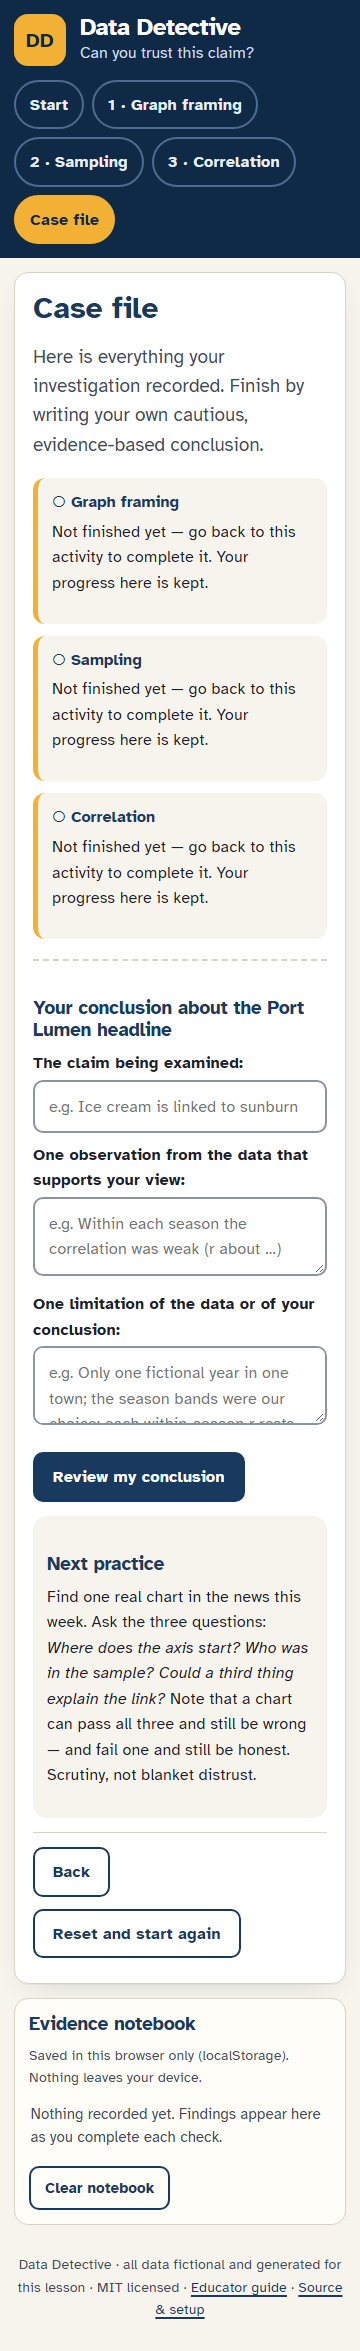
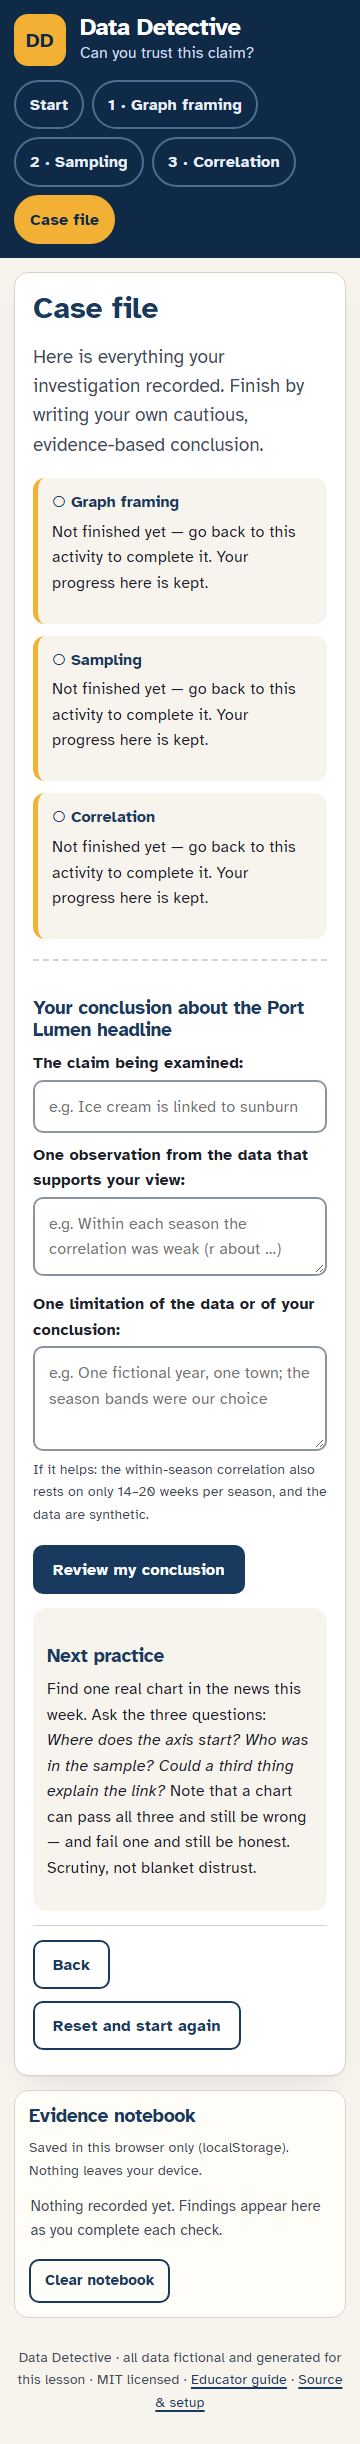
polish: non-blocking fixes — summary placeholder, a2 chart headroom, draw labels, step aria-labels

diff --git a/app.js b/app.js
@@ -87,6 +87,7 @@
       const isCur = b.dataset.go === screen;
       if (isCur) b.setAttribute('aria-current', 'step'); else b.removeAttribute('aria-current');
       b.classList.toggle('done', isDone(b.dataset.go) && !isCur);
+      b.setAttribute('aria-label', `${b.textContent.trim()}${isDone(b.dataset.go) && !isCur ? ' — completed' : ''}`);
     });
     if (screen === 'summary') renderSummary();
     if (opts.focusHeading !== false && !STATIC) {
@@ -221,7 +222,9 @@
     const svg = $('#a2-chart'); svg.innerHTML = '';
     const W = chartWidth(svg), H = 320, L = 60, R = 20, T = 40, B = 56, PB = H - B, PT = T;
     svg.setAttribute('viewBox', `0 0 ${W} ${H}`);
-    const ymin = 6.0, ymax = 8.0;
+    const lo = Math.min(6.0, ...draws.map(d => d.meanSleep)), hi = Math.max(8.0, ...draws.map(d => d.meanSleep));
+    const ymin = lo < 6.0 ? Math.floor((lo - 0.2) * 2) / 2 : 6.0;
+    const ymax = hi > 8.0 ? Math.ceil((hi + 0.2) * 2) / 2 : 8.0;
     const g = svgEl('g', { class: 'grid' }), ax = svgEl('g', { class: 'axis' }), tk = svgEl('g', { class: 'tick' });
     for (const v of niceTicks(ymin, ymax, 4)) { const y = M.project(v, ymin, ymax, PT, PB); g.append(svgEl('line', { x1: L, x2: W - R, y1: y, y2: y })); const t = svgEl('text', { x: L - 10, y: y + 5, 'text-anchor': 'end' }); t.textContent = fmt(v); tk.append(t); }
     ax.append(svgEl('line', { x1: L, x2: L, y1: PT, y2: PB }), svgEl('line', { x1: L, x2: W - R, y1: PB, y2: PB }));
@@ -236,7 +239,7 @@
       const y = M.project(Math.min(Math.max(d.meanSleep, ymin), ymax), ymin, ymax, PT, PB);
       const r = 5 + Math.log10(d.n) * 4;
       svg.append(svgEl('circle', { class: d.method === 'random' ? 'series-b' : 'series-a', cx: x, cy: y, r, opacity: 0.85 }));
-      const t = svgEl('text', { x, y: PB + 20, 'text-anchor': 'middle' }); t.textContent = i + 1; tk.append(t);
+      if (draws.length <= 12 || (i + 1) % Math.ceil(draws.length / 12) === 0) { const t = svgEl('text', { x, y: PB + 20, 'text-anchor': 'middle' }); t.textContent = i + 1; tk.append(t); }
     });
     const legend = $('#a2-legend') || el('p', { class: 'legend', id: 'a2-legend' });
     legend.innerHTML = '<span class="la">convenience (library door)</span><span class="lb">simple random (ID register)</span><span>dot size = sample size</span>';

diff --git a/index.html b/index.html
@@ -274,7 +274,8 @@
       <label for="s-obs">One observation from the data that supports your view:</label>
       <textarea id="s-obs" rows="2" placeholder="e.g. Within each season the correlation was weak (r about …)"></textarea>
       <label for="s-limit">One limitation of the data or of your conclusion:</label>
-      <textarea id="s-limit" rows="2" placeholder="e.g. Only one fictional year in one town; the season bands were our choice; each within-season r rests on just 14–20 weeks"></textarea>
+      <textarea id="s-limit" rows="3" placeholder="e.g. One fictional year, one town; the season bands were our choice"></textarea>
+      <p class="fine">If it helps: the within-season correlation also rests on only 14–20 weeks per season, and the data are synthetic.</p>
       <div class="actions"><button class="primary" id="s-check">Review my conclusion</button></div>
       <div class="feedback" id="s-feedback" role="status" aria-live="polite"></div>
     </div>
